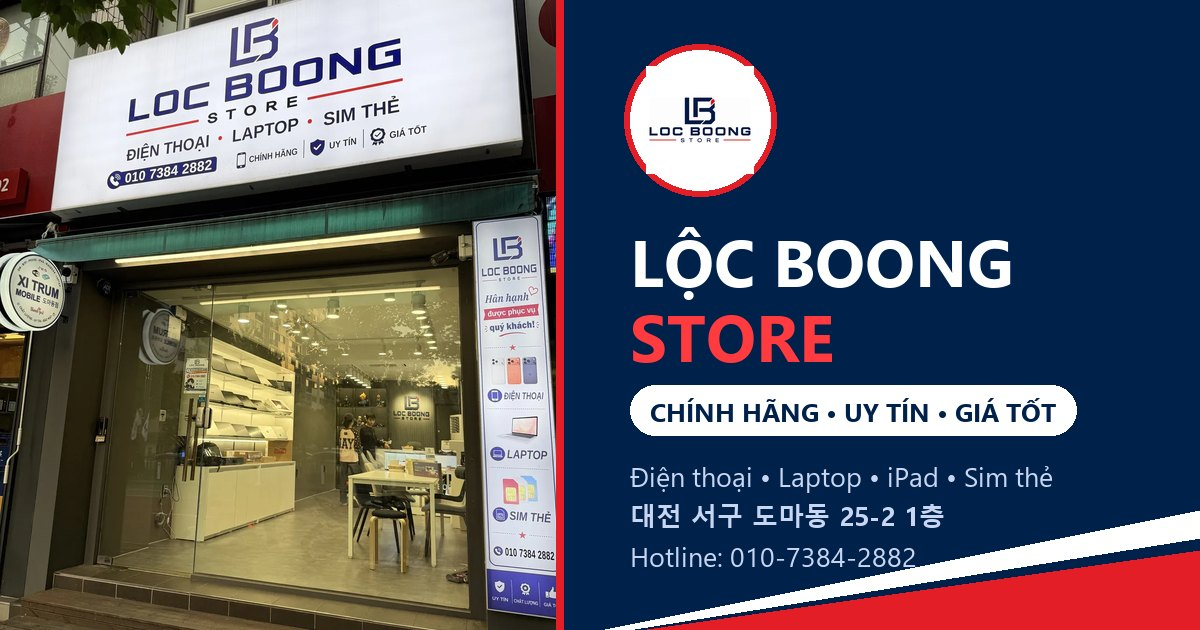
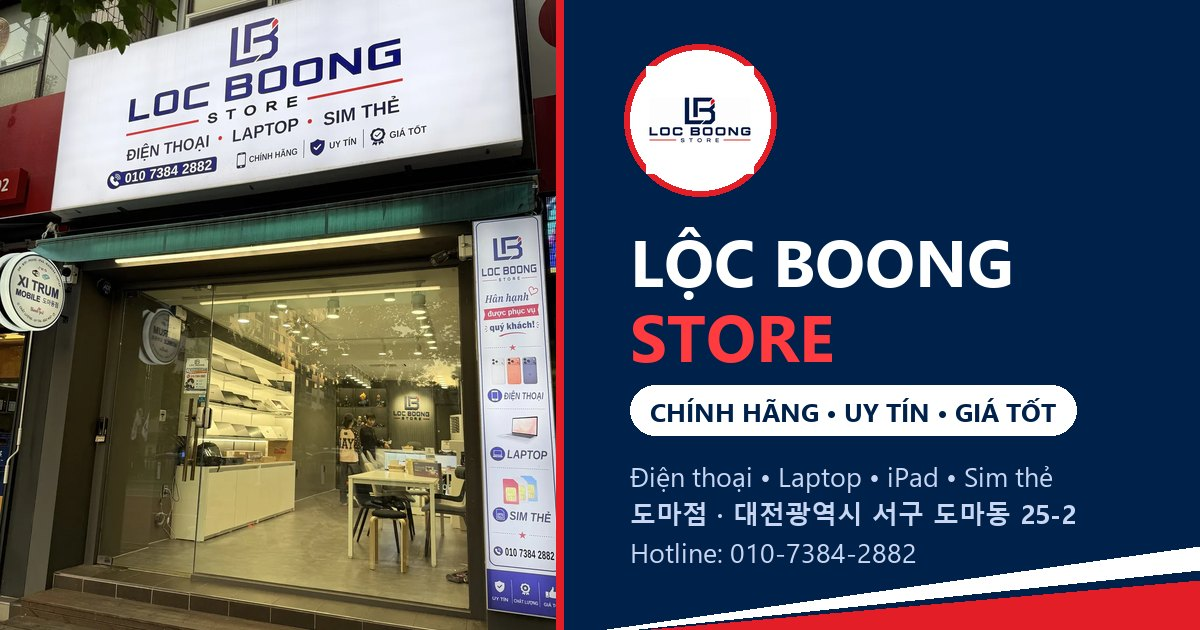
Update store addresses to 도마점 and 궁동점
Use the full addresses 대전광역시 서구 도마동 25-2 폰매장 (도마점) and
대전광역시 유성구 궁동 402-4 폰매장 (궁동점) in buttons, store info,
map links, meta descriptions and the link preview image.

Changed region(s): [[0.4933, 0.7841, 1.0, 1.0]]

diff --git a/index.html b/index.html
@@ -4,10 +4,10 @@
 <meta charset="utf-8">
 <meta name="viewport" content="width=device-width, initial-scale=1, viewport-fit=cover">
 <title>Lộc Boong Store</title>
-<meta name="description" content="Lộc Boong Store – Điện thoại, Laptop, Sim thẻ chính hãng, uy tín, giá tốt tại 대전 서구 도마동 25-2. Ship toàn Hàn, test máy thoải mái trước khi chốt.">
+<meta name="description" content="Lộc Boong Store – Điện thoại, Laptop, Sim thẻ chính hãng, uy tín, giá tốt tại 도마점 (대전 서구 도마동 25-2) và 궁동점 (대전 유성구 궁동 402-4). Ship toàn Hàn, test máy thoải mái trước khi chốt.">
 <meta name="theme-color" content="#00214A">
 <meta property="og:title" content="Lộc Boong Store – Điện thoại • Laptop • Sim thẻ">
-<meta property="og:description" content="Chính hãng • Uy tín • Giá tốt. 대전 서구 도마동 25-2 1층 폰매장 · 010-7384-2882">
+<meta property="og:description" content="Chính hãng • Uy tín • Giá tốt. 도마점: 서구 도마동 25-2 · 궁동점: 유성구 궁동 402-4 · 010-7384-2882">
 <meta property="og:type" content="website">
 <meta property="og:image" content="https://raw.githubusercontent.com/error886/loc-boong-store-bio/main/assets/og.jpg">
 <meta property="og:image:type" content="image/jpeg">
@@ -257,9 +257,15 @@
       <span class="arr"><svg viewBox="0 0 24 24" fill="none" stroke="currentColor" stroke-width="2.5" stroke-linecap="round" stroke-linejoin="round"><path d="M9 6l6 6-6 6"/></svg></span>
     </a>
 
-    <a class="cta" href="https://map.naver.com/p/search/%EB%8C%80%EC%A0%84%20%EC%84%9C%EA%B5%AC%20%EB%8F%84%EB%A7%88%EB%8F%99%2025-2" target="_blank" rel="noopener">
+    <a class="cta" href="https://map.naver.com/p/search/%EB%8C%80%EC%A0%84%EA%B4%91%EC%97%AD%EC%8B%9C%20%EC%84%9C%EA%B5%AC%20%EB%8F%84%EB%A7%88%EB%8F%99%2025-2" target="_blank" rel="noopener">
       <span class="ic map"><svg viewBox="0 0 24 24" fill="currentColor"><path d="M12 2a7 7 0 0 0-7 7c0 5.2 7 13 7 13s7-7.8 7-13a7 7 0 0 0-7-7zm0 9.5A2.5 2.5 0 1 1 12 6.5a2.5 2.5 0 0 1 0 5z"/></svg></span>
-      <span class="txt"><b>Chỉ đường đến quán</b><small>대전 서구 도마동 25-2 1층 폰매장 · Naver Map</small></span>
+      <span class="txt"><b>Chỉ đường: 도마점 · Lộc Boong Store</b><small>대전광역시 서구 도마동 25-2 폰매장 · Naver Map</small></span>
+      <span class="arr"><svg viewBox="0 0 24 24" fill="none" stroke="currentColor" stroke-width="2.5" stroke-linecap="round" stroke-linejoin="round"><path d="M7 17 17 7M8 7h9v9"/></svg></span>
+    </a>
+
+    <a class="cta" href="https://map.naver.com/p/search/%EB%8C%80%EC%A0%84%EA%B4%91%EC%97%AD%EC%8B%9C%20%EC%9C%A0%EC%84%B1%EA%B5%AC%20%EA%B6%81%EB%8F%99%20402-4" target="_blank" rel="noopener">
+      <span class="ic map"><svg viewBox="0 0 24 24" fill="currentColor"><path d="M12 2a7 7 0 0 0-7 7c0 5.2 7 13 7 13s7-7.8 7-13a7 7 0 0 0-7-7zm0 9.5A2.5 2.5 0 1 1 12 6.5a2.5 2.5 0 0 1 0 5z"/></svg></span>
+      <span class="txt"><b>Chỉ đường: 궁동점 · Xi Trum Mobile</b><small>대전광역시 유성구 궁동 402-4 폰매장 · Naver Map</small></span>
       <span class="arr"><svg viewBox="0 0 24 24" fill="none" stroke="currentColor" stroke-width="2.5" stroke-linecap="round" stroke-linejoin="round"><path d="M7 17 17 7M8 7h9v9"/></svg></span>
     </a>
   </nav>
@@ -276,9 +282,9 @@
 
   <!-- ===== Mặt tiền ===== -->
   <section class="reveal">
-    <button class="hero-img" type="button" data-zoom="assets/storefront.webp" data-cap="Lộc Boong Store · 대전 서구 도마동 25-2 1층">
+    <button class="hero-img" type="button" data-zoom="assets/storefront.webp" data-cap="Lộc Boong Store 도마점 · 대전광역시 서구 도마동 25-2 폰매장">
       <img src="assets/storefront.webp" alt="Mặt tiền Lộc Boong Store" loading="lazy">
-      <span class="hero-cap"><b>Ghé quán test máy thoải mái</b><small>대전 서구 도마동 25-2 · 1층 폰매장</small></span>
+      <span class="hero-cap"><b>Ghé quán test máy thoải mái</b><small>도마점 · 대전광역시 서구 도마동 25-2 폰매장</small></span>
     </button>
   </section>
 
@@ -314,8 +320,13 @@
     <div class="info">
       <div class="row">
         <span class="ri"><svg viewBox="0 0 24 24" fill="currentColor"><path d="M12 2a7 7 0 0 0-7 7c0 5.2 7 13 7 13s7-7.8 7-13a7 7 0 0 0-7-7zm0 9.5A2.5 2.5 0 1 1 12 6.5a2.5 2.5 0 0 1 0 5z"/></svg></span>
-        <div><small>Địa chỉ</small><b class="ko">대전 서구 도마동 25-2 1층 폰매장</b>
-          <button class="copy" type="button" data-copy="대전 서구 도마동 25-2 1층 폰매장">Sao chép địa chỉ</button></div>
+        <div><small>도마점 · Lộc Boong Store</small><b class="ko">대전광역시 서구 도마동 25-2 폰매장</b>
+          <button class="copy" type="button" data-copy="대전광역시 서구 도마동 25-2 폰매장">Sao chép địa chỉ</button></div>
+      </div>
+      <div class="row">
+        <span class="ri"><svg viewBox="0 0 24 24" fill="currentColor"><path d="M12 2a7 7 0 0 0-7 7c0 5.2 7 13 7 13s7-7.8 7-13a7 7 0 0 0-7-7zm0 9.5A2.5 2.5 0 1 1 12 6.5a2.5 2.5 0 0 1 0 5z"/></svg></span>
+        <div><small>궁동점 · Xi Trum Mobile</small><b class="ko">대전광역시 유성구 궁동 402-4 폰매장</b>
+          <button class="copy" type="button" data-copy="대전광역시 유성구 궁동 402-4 폰매장">Sao chép địa chỉ</button></div>
       </div>
       <div class="row">
         <span class="ri"><svg viewBox="0 0 24 24" fill="currentColor"><path d="M6.6 10.8a15.1 15.1 0 0 0 6.6 6.6l2.2-2.2c.3-.3.7-.4 1-.2 1.1.4 2.3.6 3.6.6.6 0 1 .4 1 1V20c0 .6-.4 1-1 1A17 17 0 0 1 3 4c0-.6.4-1 1-1h3.5c.6 0 1 .4 1 1 0 1.3.2 2.5.6 3.6.1.3 0 .7-.2 1z"/></svg></span>

diff --git a/catalog.html b/catalog.html
@@ -4,7 +4,7 @@
 <meta charset="utf-8">
 <meta name="viewport" content="width=device-width, initial-scale=1, viewport-fit=cover">
 <title>Catalog Lộc Boong Store</title>
-<meta name="description" content="Catalog iPhone, Samsung, iPad, laptop gaming & văn phòng đang có tại Lộc Boong Store – 대전 도마동.">
+<meta name="description" content="Catalog iPhone, Samsung, iPad, laptop gaming & văn phòng đang có tại Lộc Boong Store – 도마점 · 궁동점, 대전.">
 <meta name="theme-color" content="#00214A">
 <link rel="icon" href="assets/logo.webp">
 <link rel="preconnect" href="https://fonts.googleapis.com">
@@ -92,7 +92,7 @@
     <a class="back" href="index.html" aria-label="Về trang chính"><svg viewBox="0 0 24 24" fill="none" stroke="currentColor" stroke-width="2.6" stroke-linecap="round" stroke-linejoin="round"><path d="M15 18l-6-6 6-6"/></svg></a>
     <div class="brand">
       <span class="lg"><img src="assets/logo.webp" alt=""></span>
-      <div><b>LỘC BOONG STORE</b><small>Catalog sản phẩm · 대전 도마동</small></div>
+      <div><b>LỘC BOONG STORE</b><small>Catalog sản phẩm · 도마점 · 궁동점</small></div>
     </div>
   </div>
   <div class="stripe"></div>
